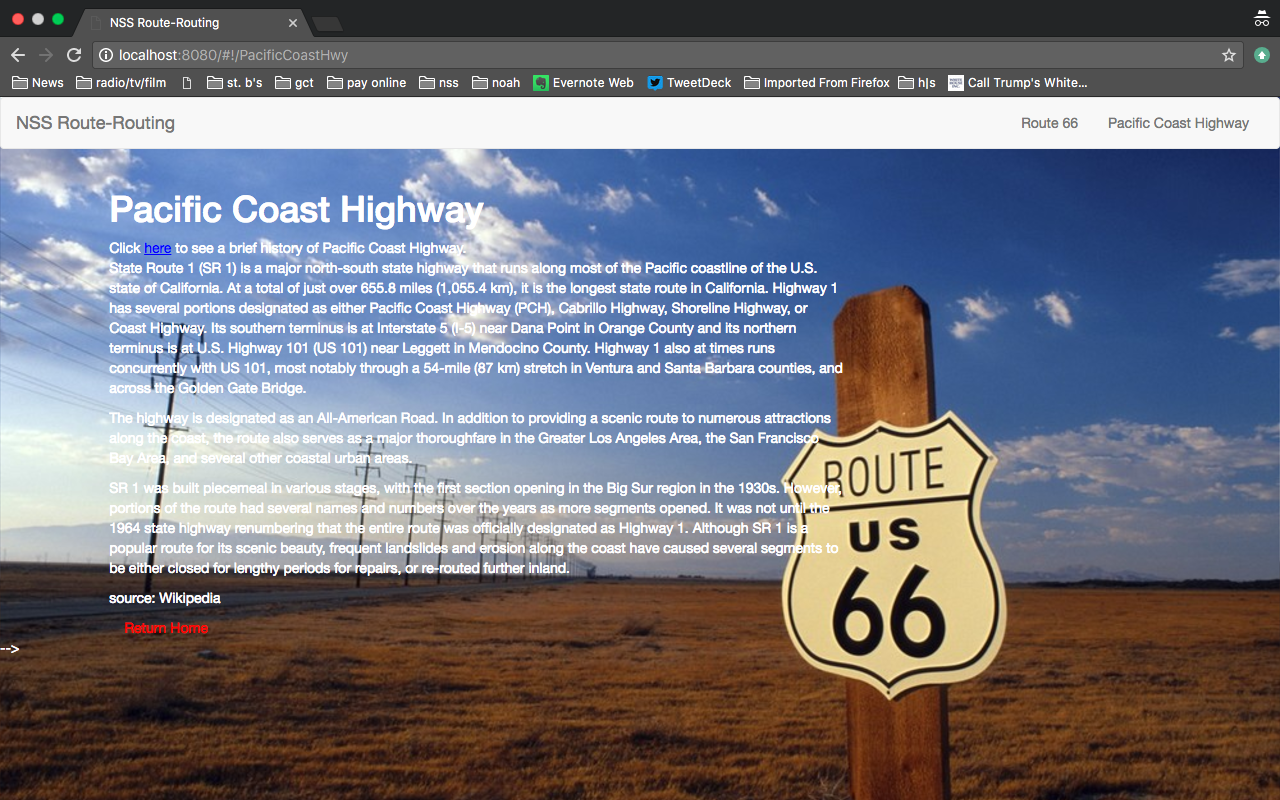
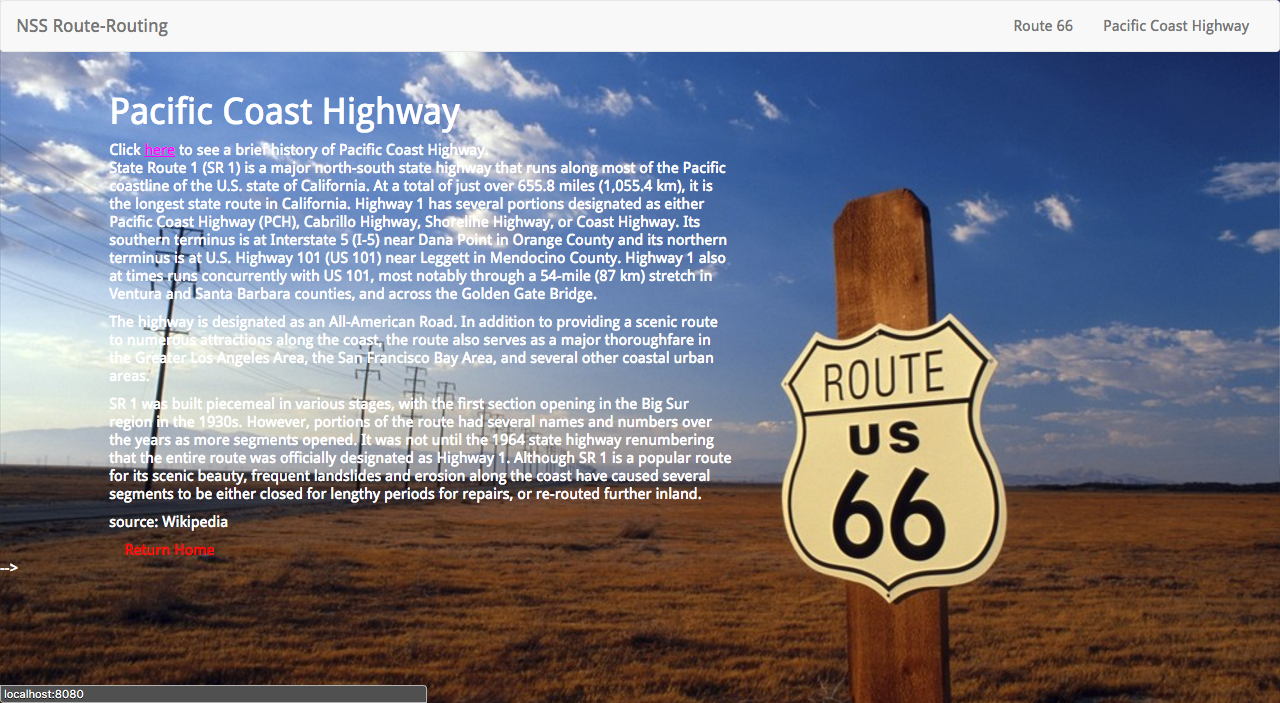
styles changes + revised screen grabs

diff --git a/styles/main.css b/styles/main.css
@@ -1,7 +1,13 @@
 body {
   background-size: cover;
   background-image: url("/images/route 66.jpeg");
-  color: #FFF; }
+  color: #FFF;
+  font: 100% "Droid Sans", sans-serif;
+  font-size: 1.5em; }
+
+.pacCoast body {
+  background-size: cover;
+  background-image: url("/images/Pacific Coast Highway 1.jpg"); }
 
 .homePage a:link, .highwayPage a:link {
   color: #FF0000; }

diff --git a/sass/main.scss b/sass/main.scss
@@ -6,6 +6,17 @@ body {
 	background-size: cover;
 	background-image: url("/images/route 66.jpeg");
 	color: $white;
+	font: 100% $font-stack;
+	font-size: 1.5em;
+}
+
+
+.pacCoast {
+
+	body {
+	background-size: cover;
+	background-image: url("/images/Pacific Coast Highway 1.jpg");
+	}
 }
 
 

diff --git a/index.html b/index.html
@@ -21,7 +21,7 @@
       <h5>NSS Route-Routing</h5>
     </div> -->
 
-    <div class="col-xs-7 col-xs-offset-1" ng-view>
+    <div class="col-xs-6 col-xs-offset-1" ng-view>
     </div>
 
   </div>

diff --git a/partials/pacCoastHwy.html b/partials/pacCoastHwy.html
@@ -1,4 +1,4 @@
-<div class="highwayPage">
+<div class="highwayPage pacCoast">
 
 	<div class="highwayName highwayPage">
 		<h1>{{highwayName}}</h1>
